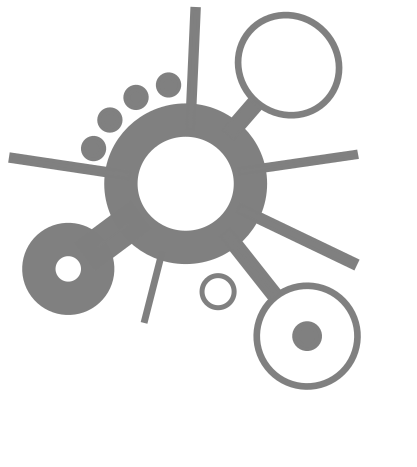
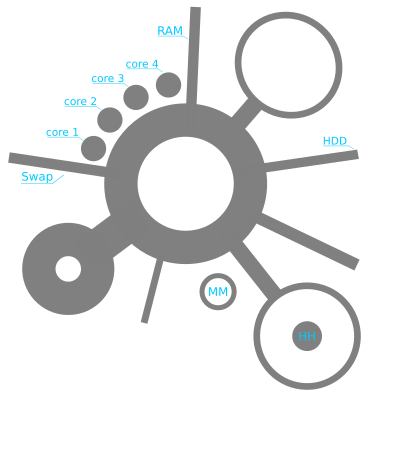
Labels added

diff --git a/README.md b/README.md
@@ -9,7 +9,7 @@
 This uses conky monitoring system to display cpu and system related other information in Ubuntu.
 This is an developement build for 4 core systems. 
 
-![Screenshot of the conky](http://i.imgur.com/7ZGwRhZ.png)
+![Screenshot of the conky](http://i.imgur.com/4n6T7w8.png)
 
 # Installation
    ```bash
@@ -18,10 +18,19 @@ This is an developement build for 4 core systems.
   	cd Unusual
   	chmod +x .start-conky 
   	cp -R .conky .conkyrc .start-conky ~
+  	rm -R Unusual
   ```
   * Now open Startup Applications > click Add  > New Dialog box will open click on Browse > Now (Press Ctrl+H) see following screenshot.
 
 	![Start up-application](http://i.imgur.com/lFoYjWC.png)
+
+# Updating
+  ```bash
+    cd Unusual
+  	chmod +x .start-conky 
+  	cp -R .conky .conkyrc .start-conky ~
+  	rm -R Unusual
+  ```
 
 # Reference 
 
